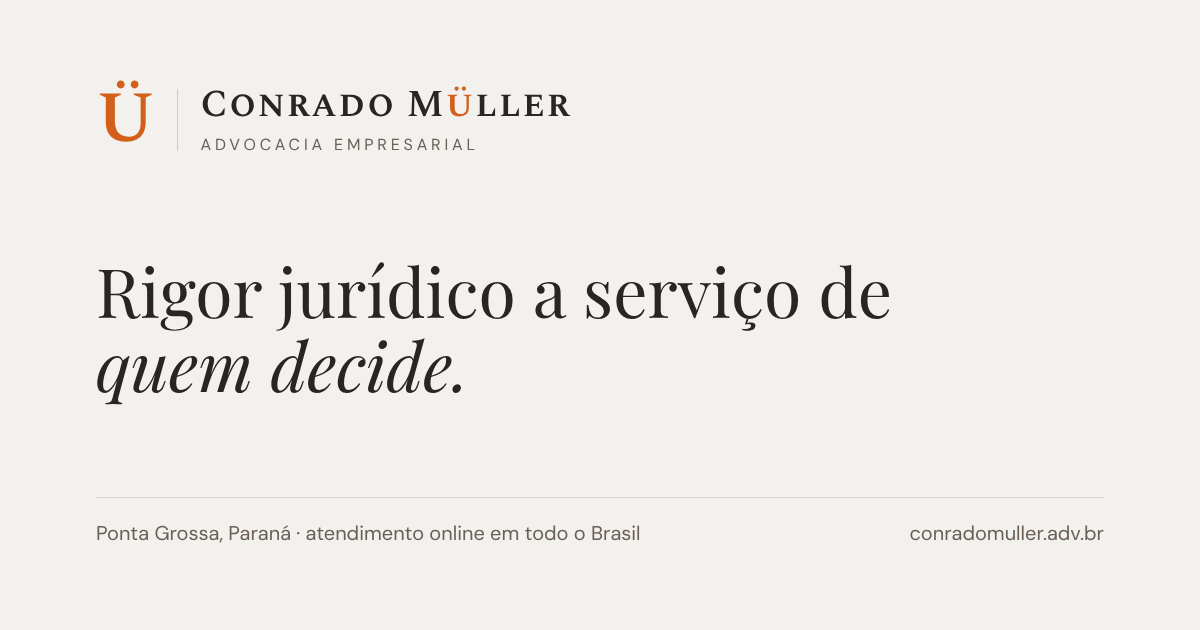
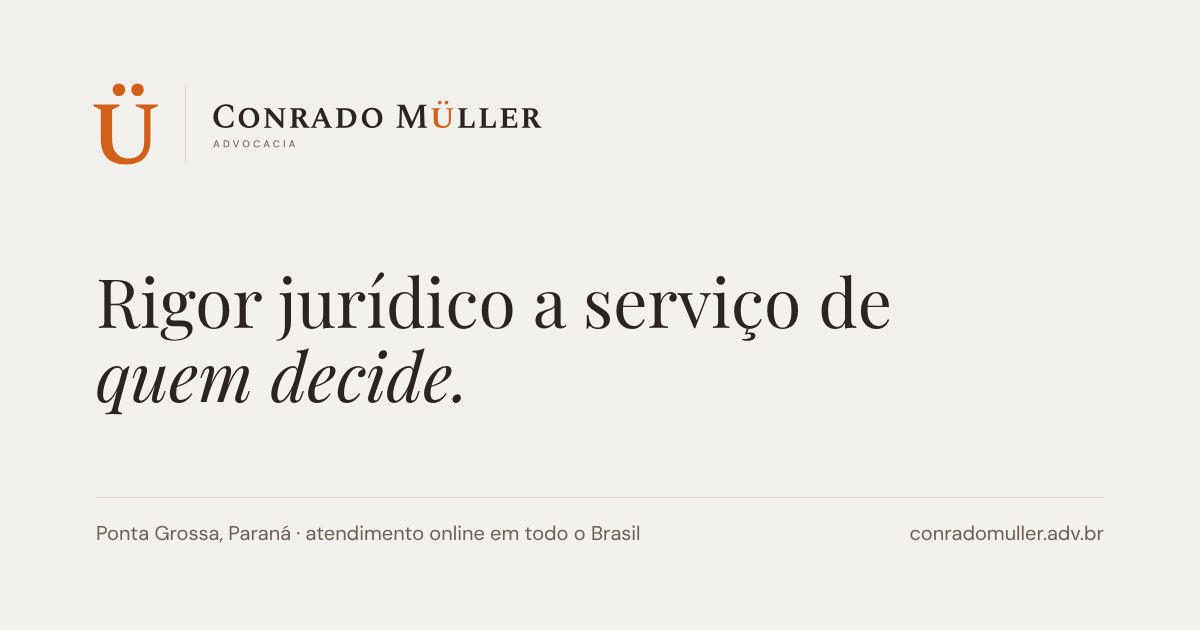
Add files via upload

Changed region(s): [[0.0617, 0.4222, 0.74, 0.6635], [0.0617, 0.1206, 0.4933, 0.2714]]

diff --git a/index.html b/index.html
@@ -35,7 +35,7 @@ input:focus,textarea:focus,select:focus{outline:2px solid #D2601A;outline-offset
 .hero-in-2{animation-delay:.35s}.hero-in-3{animation-delay:1.05s}
 @media (prefers-reduced-motion:reduce){.hero-in{opacity:1;animation:none}}
 .v-stage{display:flex;flex-wrap:wrap;align-items:stretch;gap:32px 64px;padding:0 0 40px}
-.v-u{font-family:'Spectral SC',Georgia,serif;font-weight:600;font-size:clamp(110px,10vw,148px);line-height:.82;color:#D2601A;align-self:center}
+.v-u{display:block;height:clamp(99px,9vw,133px);width:auto;align-self:center}
 .v-div{width:1px;background:#D3CAC0}
 .v-rot{position:relative;flex:1 1 420px;min-width:0;min-height:200px}
 .v-slide{position:absolute;inset:0;display:flex;flex-direction:column;justify-content:center;gap:18px;opacity:0;animation:vCycle 21s cubic-bezier(.33,0,.2,1) infinite both}
@@ -49,7 +49,7 @@ input:focus,textarea:focus,select:focus{outline:2px solid #D2601A;outline-offset
 .v-bar:nth-child(2)::after{animation-delay:7s}.v-bar:nth-child(3)::after{animation-delay:14s}
 @keyframes vCycle{0%{opacity:0;transform:translateY(6px)}6%{opacity:1;transform:none}29%{opacity:1;transform:none}33.33%{opacity:0;transform:translateY(-4px)}100%{opacity:0}}
 @keyframes vBar{0%{transform:scaleX(0)}33.33%{transform:scaleX(1)}33.34%,100%{transform:scaleX(0)}}
-@media (max-width:760px){.v-stage{gap:24px}.v-u{font-size:96px}.v-div{display:none}.v-rot{min-height:220px}}
+@media (max-width:760px){.v-stage{gap:24px}.v-u{height:86px}.v-div{display:none}.v-rot{min-height:220px}}
 @media (min-width:1100px){.card-t{min-height:2.5em}}
 @media (prefers-reduced-motion:reduce){.v-slide,.v-bar::after{animation:none}.v-s1{opacity:1}.v-bars{display:none}}
 .wa-float{position:fixed;right:24px;bottom:24px;z-index:50;display:inline-flex;align-items:center;gap:10px;padding:13px 18px 13px 15px;background:#2A2522;color:#FFFFFF;text-decoration:none;border-radius:2px;font-size:15px;font-weight:500;box-shadow:0 8px 24px rgba(42,37,34,.22);transition:transform .2s ease}
@@ -75,10 +75,7 @@ a:focus-visible,button:focus-visible,summary:focus-visible{outline:2px solid #D2
 @media (max-width:760px){
   header > div{gap:12px!important}
   header a[aria-label]{gap:12px!important}
-  header a[aria-label] > span:first-child{font-size:38px!important}
-  header a[aria-label] > span:nth-child(2){height:32px!important}
-  header a[aria-label] > span:nth-child(3) > span:first-child{font-size:19px!important}
-  header a[aria-label] > span:nth-child(3) > span:last-child{font-size:9px!important;letter-spacing:.2em!important}
+  header a[aria-label] .logo-h{height:44px!important;width:auto!important}
   .menu-btn{display:inline-flex;align-items:center;font:inherit;font-size:12px;font-weight:500;letter-spacing:.14em;text-transform:uppercase;background:none;border:1px solid #2A2522;color:#2A2522;padding:9px 12px;border-radius:2px;cursor:pointer}
   #nav-principal{display:none!important;width:100%;flex-direction:column;align-items:stretch!important;gap:0!important;padding:4px 0 8px}
   #nav-principal.open{display:flex!important}
@@ -90,7 +87,7 @@ a:focus-visible,button:focus-visible,summary:focus-visible{outline:2px solid #D2
 {"@context":"https://schema.org","@type":"WebSite","name":"Conrado Müller Advocacia","alternateName":["Conrado Müller","Conrado Müller Advocacia Empresarial"],"url":"https://conradomuller.adv.br/"}
 </script>
 <script type="application/ld+json">
-{"@context":"https://schema.org","@type":"LegalService","name":"Conrado Müller Advocacia","url":"https://conradomuller.adv.br/","image":"https://conradomuller.adv.br/og.png","logo":"https://conradomuller.adv.br/apple-touch-icon.png","description":"Advocacia empresarial para empresários e pequenas e médias empresas: contratos, societário e governança, contencioso cível, trabalhista empresarial e assessoria jurídica contínua.","telephone":"+55 42 98441-4866","email":"contato@conradomuller.adv.br","address":{"@type":"PostalAddress","addressLocality":"Ponta Grossa","addressRegion":"PR","addressCountry":"BR"},"areaServed":{"@type":"Country","name":"Brasil"},"knowsAbout":["Direito Empresarial","Contratos","Direito Societário","Governança","Contencioso Cível","Direito do Trabalho"],"founder":{"@type":"Person","name":"Conrado Müller Milek","jobTitle":"Advogado","image":"https://conradomuller.adv.br/conrado-muller-milek.webp","sameAs":["https://www.linkedin.com/in/conradomilek"]},"sameAs":["https://www.instagram.com/conradomuller.adv","https://www.linkedin.com/in/conradomilek"]}
+{"@context":"https://schema.org","@type":"LegalService","name":"Conrado Müller Advocacia","url":"https://conradomuller.adv.br/","image":"https://conradomuller.adv.br/og.png","logo":"https://conradomuller.adv.br/icon-512.png","description":"Advocacia empresarial para empresários e pequenas e médias empresas: contratos, societário e governança, contencioso cível, trabalhista empresarial e assessoria jurídica contínua.","telephone":"+55 42 98441-4866","email":"contato@conradomuller.adv.br","address":{"@type":"PostalAddress","addressLocality":"Ponta Grossa","addressRegion":"PR","addressCountry":"BR"},"areaServed":{"@type":"Country","name":"Brasil"},"knowsAbout":["Direito Empresarial","Contratos","Direito Societário","Governança","Contencioso Cível","Direito do Trabalho"],"founder":{"@type":"Person","name":"Conrado Müller Milek","jobTitle":"Advogado","image":"https://conradomuller.adv.br/conrado-muller-milek.webp","sameAs":["https://www.linkedin.com/in/conradomilek"]},"sameAs":["https://www.instagram.com/conradomuller.adv","https://www.linkedin.com/in/conradomilek"]}
 </script>
 </head>
 <body>
@@ -106,14 +103,7 @@ a:focus-visible,button:focus-visible,summary:focus-visible{outline:2px solid #D2
   <!-- HEADER -->
   <header style="border-bottom: 1px solid #DDD5CB; padding: 0 24px; background: #F3F1EE">
     <div style="max-width: 1200px; margin: 0 auto; display: flex; flex-wrap: wrap; align-items: center; justify-content: space-between; gap: 20px; padding: 22px 0">
-      <a href="/" aria-label="Conrado Müller Advocacia, início" style="text-decoration: none; display: flex; align-items: center; gap: 16px">
-        <span aria-hidden="true" style="font-family: 'Spectral SC', Georgia, serif; font-size: 46px; line-height: 1; font-weight: 600; color: #D2601A">Ü</span>
-        <span aria-hidden="true" style="display: block; width: 1px; height: 40px; background: #D3CAC0"></span>
-        <span aria-hidden="true" style="display: flex; flex-direction: column; gap: 6px">
-          <span style="font-family: 'Spectral SC', Georgia, serif; font-size: 24px; font-weight: 600; letter-spacing: 0.04em; color: #2A2522; line-height: 1">Conrado M<span style="color: #D2601A">ü</span>ller</span>
-          <span style="font-size: 11px; letter-spacing: 0.24em; text-transform: uppercase; color: #6B6058">Advocacia Empresarial</span>
-        </span>
-      </a>
+      <a href="/" aria-label="Conrado Müller Advocacia, início" style="text-decoration: none; display: flex; align-items: center; gap: 16px"><img class="logo-h" src="/logo-horizontal-compacto.svg" alt="" width="275" height="53" style="display:block;height:53px;width:auto"></a>
       <input type="text" name="_gotcha" tabindex="-1" autocomplete="off" aria-hidden="true" style="display:none">
         <input type="hidden" name="_subject" value="Novo contato pelo site">
         <button type="submit" class="menu-btn" aria-expanded="false" aria-controls="nav-principal">Menu</button>
@@ -322,7 +312,7 @@ a:focus-visible,button:focus-visible,summary:focus-visible{outline:2px solid #D2
         <span style="font-size: 12px; letter-spacing: 0.2em; text-transform: uppercase; font-weight: 500">05 · Valores</span>
       </div>
       <div class="v-stage" aria-hidden="true">
-        <span class="v-u" style="line-height: 1.25">Ü</span>
+        <img class="v-u" src="/logo-ue.svg" alt="" width="106" height="133">
         <span class="v-div"></span>
         <div class="v-rot">
           <div class="v-slide v-s1">
@@ -483,7 +473,7 @@ a:focus-visible,button:focus-visible,summary:focus-visible{outline:2px solid #D2
   <footer style="background: #2A2522; color: #B0A69B; padding: 0 24px">
     <div style="max-width: 1200px; margin: 0 auto; border-top: 1px solid #403833; padding: 48px 0 40px; display: flex; flex-wrap: wrap; justify-content: space-between; gap: 32px">
       <div style="display: flex; gap: 20px; align-items: flex-start; flex: 1 1 360px; min-width: 0">
-        <span aria-hidden="true" style="font-family: 'Spectral SC', Georgia, serif; font-size: 44px; line-height: 1; font-weight: 600; color: #D2601A">Ü</span>
+        <img src="/logo-ue.svg" alt="" aria-hidden="true" width="32" height="40" style="display:block;flex:0 0 auto;height:40px;width:auto;margin-top:2px">
         <div style="display: flex; flex-direction: column; gap: 6px; font-size: 14px; line-height: 1.6"><span style="color: rgb(243, 241, 238)">Conrado Müller Advocacia</span>
           <span>Sociedade Individual de Advocacia OAB/PR 114.843</span>
           <span>Ponta Grossa, Paraná · Atendimento online em todo o Brasil</span>

diff --git a/duvidas.html b/duvidas.html
@@ -52,10 +52,7 @@ a:focus-visible,button:focus-visible,summary:focus-visible{outline:2px solid #D2
 @media (max-width:760px){
   header > div{gap:12px!important}
   header a[aria-label]{gap:12px!important}
-  header a[aria-label] > span:first-child{font-size:38px!important}
-  header a[aria-label] > span:nth-child(2){height:32px!important}
-  header a[aria-label] > span:nth-child(3) > span:first-child{font-size:19px!important}
-  header a[aria-label] > span:nth-child(3) > span:last-child{font-size:9px!important;letter-spacing:.2em!important}
+  header a[aria-label] .logo-h{height:44px!important;width:auto!important}
   .menu-btn{display:inline-flex;align-items:center;font:inherit;font-size:12px;font-weight:500;letter-spacing:.14em;text-transform:uppercase;background:none;border:1px solid #2A2522;color:#2A2522;padding:9px 12px;border-radius:2px;cursor:pointer}
   #nav-principal{display:none!important;width:100%;flex-direction:column;align-items:stretch!important;gap:0!important;padding:4px 0 8px}
   #nav-principal.open{display:flex!important}
@@ -78,14 +75,7 @@ a:focus-visible,button:focus-visible,summary:focus-visible{outline:2px solid #D2
   <!-- HEADER -->
   <header style="border-bottom: 1px solid #DDD5CB; padding: 0 24px; background: #F3F1EE">
     <div style="max-width: 1200px; margin: 0 auto; display: flex; flex-wrap: wrap; align-items: center; justify-content: space-between; gap: 20px; padding: 22px 0">
-      <a href="/" aria-label="Conrado Müller Advocacia, início" style="text-decoration: none; display: flex; align-items: center; gap: 16px">
-        <span aria-hidden="true" style="font-family: 'Spectral SC', Georgia, serif; font-size: 46px; line-height: 1; font-weight: 600; color: #D2601A">Ü</span>
-        <span aria-hidden="true" style="display: block; width: 1px; height: 40px; background: #D3CAC0"></span>
-        <span aria-hidden="true" style="display: flex; flex-direction: column; gap: 6px">
-          <span style="font-family: 'Spectral SC', Georgia, serif; font-size: 24px; font-weight: 600; letter-spacing: 0.04em; color: #2A2522; line-height: 1">Conrado M<span style="color: #D2601A">ü</span>ller</span>
-          <span style="font-size: 11px; letter-spacing: 0.24em; text-transform: uppercase; color: #6B6058">Advocacia Empresarial</span>
-        </span>
-      </a>
+      <a href="/" aria-label="Conrado Müller Advocacia, início" style="text-decoration: none; display: flex; align-items: center; gap: 16px"><img class="logo-h" src="/logo-horizontal-compacto.svg" alt="" width="275" height="53" style="display:block;height:53px;width:auto"></a>
       <button type="button" class="menu-btn" aria-expanded="false" aria-controls="nav-principal">Menu</button>
       <nav id="nav-principal" aria-label="Principal" style="display: flex; flex-wrap: wrap; align-items: center; gap: 28px; font-size: 15px">
         <a href="/#escritorio" style="text-decoration: none">O Escritório</a>
@@ -288,7 +278,7 @@ a:focus-visible,button:focus-visible,summary:focus-visible{outline:2px solid #D2
   <footer style="background: #2A2522; color: #B0A69B; padding: 0 24px">
     <div style="max-width: 1200px; margin: 0 auto; border-top: 1px solid #403833; padding: 48px 0 40px; display: flex; flex-wrap: wrap; justify-content: space-between; gap: 32px">
       <div style="display: flex; gap: 20px; align-items: flex-start; flex: 1 1 360px; min-width: 0">
-        <span aria-hidden="true" style="font-family: 'Spectral SC', Georgia, serif; font-size: 44px; line-height: 1; font-weight: 600; color: #D2601A">Ü</span>
+        <img src="/logo-ue.svg" alt="" aria-hidden="true" width="32" height="40" style="display:block;flex:0 0 auto;height:40px;width:auto;margin-top:2px">
         <div style="display: flex; flex-direction: column; gap: 6px; font-size: 14px; line-height: 1.6">
           <span style="color: #F3F1EE">Conrado Müller Advocacia</span>
           <span>Sociedade Individual de Advocacia OAB/PR 114.843</span>

diff --git a/valores.html b/valores.html
@@ -59,10 +59,7 @@ a:focus-visible,button:focus-visible,summary:focus-visible{outline:2px solid #D2
 @media (max-width:760px){
   header > div{gap:12px!important}
   header a[aria-label]{gap:12px!important}
-  header a[aria-label] > span:first-child{font-size:38px!important}
-  header a[aria-label] > span:nth-child(2){height:32px!important}
-  header a[aria-label] > span:nth-child(3) > span:first-child{font-size:19px!important}
-  header a[aria-label] > span:nth-child(3) > span:last-child{font-size:9px!important;letter-spacing:.2em!important}
+  header a[aria-label] .logo-h{height:44px!important;width:auto!important}
   .menu-btn{display:inline-flex;align-items:center;font:inherit;font-size:12px;font-weight:500;letter-spacing:.14em;text-transform:uppercase;background:none;border:1px solid #2A2522;color:#2A2522;padding:9px 12px;border-radius:2px;cursor:pointer}
   #nav-principal{display:none!important;width:100%;flex-direction:column;align-items:stretch!important;gap:0!important;padding:4px 0 8px}
   #nav-principal.open{display:flex!important}
@@ -85,14 +82,7 @@ a:focus-visible,button:focus-visible,summary:focus-visible{outline:2px solid #D2
   <!-- HEADER -->
   <header style="border-bottom: 1px solid #DDD5CB; padding: 0 24px; background: #F3F1EE">
     <div style="max-width: 1200px; margin: 0 auto; display: flex; flex-wrap: wrap; align-items: center; justify-content: space-between; gap: 20px; padding: 22px 0">
-      <a href="/" aria-label="Conrado Müller Advocacia, início" style="text-decoration: none; display: flex; align-items: center; gap: 16px">
-        <span aria-hidden="true" style="font-family: 'Spectral SC', Georgia, serif; font-size: 46px; line-height: 1; font-weight: 600; color: #D2601A">Ü</span>
-        <span aria-hidden="true" style="display: block; width: 1px; height: 40px; background: #D3CAC0"></span>
-        <span aria-hidden="true" style="display: flex; flex-direction: column; gap: 6px">
-          <span style="font-family: 'Spectral SC', Georgia, serif; font-size: 24px; font-weight: 600; letter-spacing: 0.04em; color: #2A2522; line-height: 1">Conrado M<span style="color: #D2601A">ü</span>ller</span>
-          <span style="font-size: 11px; letter-spacing: 0.24em; text-transform: uppercase; color: #6B6058">Advocacia Empresarial</span>
-        </span>
-      </a>
+      <a href="/" aria-label="Conrado Müller Advocacia, início" style="text-decoration: none; display: flex; align-items: center; gap: 16px"><img class="logo-h" src="/logo-horizontal-compacto.svg" alt="" width="275" height="53" style="display:block;height:53px;width:auto"></a>
       <button type="button" class="menu-btn" aria-expanded="false" aria-controls="nav-principal">Menu</button>
       <nav id="nav-principal" aria-label="Principal" style="display: flex; flex-wrap: wrap; align-items: center; gap: 28px; font-size: 15px">
         <a href="/#escritorio" style="text-decoration: none">O Escritório</a>
@@ -167,7 +157,7 @@ a:focus-visible,button:focus-visible,summary:focus-visible{outline:2px solid #D2
   <footer style="background: #2A2522; color: #B0A69B; padding: 0 24px">
     <div style="max-width: 1200px; margin: 0 auto; border-top: 1px solid #403833; padding: 48px 0 40px; display: flex; flex-wrap: wrap; justify-content: space-between; gap: 32px">
       <div style="display: flex; gap: 20px; align-items: flex-start; flex: 1 1 360px; min-width: 0">
-        <span aria-hidden="true" style="font-family: 'Spectral SC', Georgia, serif; font-size: 44px; line-height: 1; font-weight: 600; color: #D2601A">Ü</span>
+        <img src="/logo-ue.svg" alt="" aria-hidden="true" width="32" height="40" style="display:block;flex:0 0 auto;height:40px;width:auto;margin-top:2px">
         <div style="display: flex; flex-direction: column; gap: 6px; font-size: 14px; line-height: 1.6">
           <span style="color: #F3F1EE">Conrado Müller Advocacia</span>
           <span>Sociedade Individual de Advocacia OAB/PR 114.843</span>

diff --git a/privacidade.html b/privacidade.html
@@ -61,10 +61,7 @@ a:focus-visible,button:focus-visible,summary:focus-visible{outline:2px solid #D2
 @media (max-width:760px){
   header > div{gap:12px!important}
   header a[aria-label]{gap:12px!important}
-  header a[aria-label] > span:first-child{font-size:38px!important}
-  header a[aria-label] > span:nth-child(2){height:32px!important}
-  header a[aria-label] > span:nth-child(3) > span:first-child{font-size:19px!important}
-  header a[aria-label] > span:nth-child(3) > span:last-child{font-size:9px!important;letter-spacing:.2em!important}
+  header a[aria-label] .logo-h{height:44px!important;width:auto!important}
   .menu-btn{display:inline-flex;align-items:center;font:inherit;font-size:12px;font-weight:500;letter-spacing:.14em;text-transform:uppercase;background:none;border:1px solid #2A2522;color:#2A2522;padding:9px 12px;border-radius:2px;cursor:pointer}
   #nav-principal{display:none!important;width:100%;flex-direction:column;align-items:stretch!important;gap:0!important;padding:4px 0 8px}
   #nav-principal.open{display:flex!important}
@@ -87,14 +84,7 @@ a:focus-visible,button:focus-visible,summary:focus-visible{outline:2px solid #D2
   <!-- HEADER -->
   <header style="border-bottom: 1px solid #DDD5CB; padding: 0 24px; background: #F3F1EE">
     <div style="max-width: 1200px; margin: 0 auto; display: flex; flex-wrap: wrap; align-items: center; justify-content: space-between; gap: 20px; padding: 22px 0">
-      <a href="/" aria-label="Conrado Müller Advocacia, início" style="text-decoration: none; display: flex; align-items: center; gap: 16px">
-        <span aria-hidden="true" style="font-family: 'Spectral SC', Georgia, serif; font-size: 46px; line-height: 1; font-weight: 600; color: #D2601A">Ü</span>
-        <span aria-hidden="true" style="display: block; width: 1px; height: 40px; background: #D3CAC0"></span>
-        <span aria-hidden="true" style="display: flex; flex-direction: column; gap: 6px">
-          <span style="font-family: 'Spectral SC', Georgia, serif; font-size: 24px; font-weight: 600; letter-spacing: 0.04em; color: #2A2522; line-height: 1">Conrado M<span style="color: #D2601A">ü</span>ller</span>
-          <span style="font-size: 11px; letter-spacing: 0.24em; text-transform: uppercase; color: #6B6058">Advocacia Empresarial</span>
-        </span>
-      </a>
+      <a href="/" aria-label="Conrado Müller Advocacia, início" style="text-decoration: none; display: flex; align-items: center; gap: 16px"><img class="logo-h" src="/logo-horizontal-compacto.svg" alt="" width="275" height="53" style="display:block;height:53px;width:auto"></a>
       <button type="button" class="menu-btn" aria-expanded="false" aria-controls="nav-principal">Menu</button>
       <nav id="nav-principal" aria-label="Principal" style="display: flex; flex-wrap: wrap; align-items: center; gap: 28px; font-size: 15px">
         <a href="/#escritorio" style="text-decoration: none">O Escritório</a>
@@ -223,7 +213,7 @@ a:focus-visible,button:focus-visible,summary:focus-visible{outline:2px solid #D2
   <footer style="background: #2A2522; color: #B0A69B; padding: 0 24px">
     <div style="max-width: 1200px; margin: 0 auto; padding: 48px 0 40px; display: flex; flex-wrap: wrap; justify-content: space-between; gap: 32px">
       <div style="display: flex; gap: 20px; align-items: flex-start; flex: 1 1 360px; min-width: 0">
-        <span aria-hidden="true" style="font-family: 'Spectral SC', Georgia, serif; font-size: 44px; line-height: 1; font-weight: 600; color: #D2601A">Ü</span>
+        <img src="/logo-ue.svg" alt="" aria-hidden="true" width="32" height="40" style="display:block;flex:0 0 auto;height:40px;width:auto;margin-top:2px">
         <div style="display: flex; flex-direction: column; gap: 6px; font-size: 14px; line-height: 1.6">
           <span style="color: #F3F1EE">Conrado Müller Advocacia</span>
           <span>Sociedade Individual de Advocacia OAB/PR 114.843</span>

diff --git a/termos.html b/termos.html
@@ -58,10 +58,7 @@ a:focus-visible,button:focus-visible,summary:focus-visible{outline:2px solid #D2
 @media (max-width:760px){
   header > div{gap:12px!important}
   header a[aria-label]{gap:12px!important}
-  header a[aria-label] > span:first-child{font-size:38px!important}
-  header a[aria-label] > span:nth-child(2){height:32px!important}
-  header a[aria-label] > span:nth-child(3) > span:first-child{font-size:19px!important}
-  header a[aria-label] > span:nth-child(3) > span:last-child{font-size:9px!important;letter-spacing:.2em!important}
+  header a[aria-label] .logo-h{height:44px!important;width:auto!important}
   .menu-btn{display:inline-flex;align-items:center;font:inherit;font-size:12px;font-weight:500;letter-spacing:.14em;text-transform:uppercase;background:none;border:1px solid #2A2522;color:#2A2522;padding:9px 12px;border-radius:2px;cursor:pointer}
   #nav-principal{display:none!important;width:100%;flex-direction:column;align-items:stretch!important;gap:0!important;padding:4px 0 8px}
   #nav-principal.open{display:flex!important}
@@ -84,14 +81,7 @@ a:focus-visible,button:focus-visible,summary:focus-visible{outline:2px solid #D2
   <!-- HEADER -->
   <header style="border-bottom: 1px solid #DDD5CB; padding: 0 24px; background: #F3F1EE">
     <div style="max-width: 1200px; margin: 0 auto; display: flex; flex-wrap: wrap; align-items: center; justify-content: space-between; gap: 20px; padding: 22px 0">
-      <a href="/" aria-label="Conrado Müller Advocacia, início" style="text-decoration: none; display: flex; align-items: center; gap: 16px">
-        <span aria-hidden="true" style="font-family: 'Spectral SC', Georgia, serif; font-size: 46px; line-height: 1; font-weight: 600; color: #D2601A">Ü</span>
-        <span aria-hidden="true" style="display: block; width: 1px; height: 40px; background: #D3CAC0"></span>
-        <span aria-hidden="true" style="display: flex; flex-direction: column; gap: 6px">
-          <span style="font-family: 'Spectral SC', Georgia, serif; font-size: 24px; font-weight: 600; letter-spacing: 0.04em; color: #2A2522; line-height: 1">Conrado M<span style="color: #D2601A">ü</span>ller</span>
-          <span style="font-size: 11px; letter-spacing: 0.24em; text-transform: uppercase; color: #6B6058">Advocacia Empresarial</span>
-        </span>
-      </a>
+      <a href="/" aria-label="Conrado Müller Advocacia, início" style="text-decoration: none; display: flex; align-items: center; gap: 16px"><img class="logo-h" src="/logo-horizontal-compacto.svg" alt="" width="275" height="53" style="display:block;height:53px;width:auto"></a>
       <button type="button" class="menu-btn" aria-expanded="false" aria-controls="nav-principal">Menu</button>
       <nav id="nav-principal" aria-label="Principal" style="display: flex; flex-wrap: wrap; align-items: center; gap: 28px; font-size: 15px">
         <a href="/#escritorio" style="text-decoration: none">O Escritório</a>
@@ -192,7 +182,7 @@ a:focus-visible,button:focus-visible,summary:focus-visible{outline:2px solid #D2
   <footer style="background: #2A2522; color: #B0A69B; padding: 0 24px">
     <div style="max-width: 1200px; margin: 0 auto; padding: 48px 0 40px; display: flex; flex-wrap: wrap; justify-content: space-between; gap: 32px">
       <div style="display: flex; gap: 20px; align-items: flex-start; flex: 1 1 360px; min-width: 0">
-        <span aria-hidden="true" style="font-family: 'Spectral SC', Georgia, serif; font-size: 44px; line-height: 1; font-weight: 600; color: #D2601A">Ü</span>
+        <img src="/logo-ue.svg" alt="" aria-hidden="true" width="32" height="40" style="display:block;flex:0 0 auto;height:40px;width:auto;margin-top:2px">
         <div style="display: flex; flex-direction: column; gap: 6px; font-size: 14px; line-height: 1.6">
           <span style="color: #F3F1EE">Conrado Müller Advocacia</span>
           <span>Sociedade Individual de Advocacia OAB/PR 114.843</span>

diff --git a/404.html b/404.html
@@ -58,10 +58,7 @@ a:focus-visible,button:focus-visible,summary:focus-visible{outline:2px solid #D2
 @media (max-width:760px){
   header > div{gap:12px!important}
   header a[aria-label]{gap:12px!important}
-  header a[aria-label] > span:first-child{font-size:38px!important}
-  header a[aria-label] > span:nth-child(2){height:32px!important}
-  header a[aria-label] > span:nth-child(3) > span:first-child{font-size:19px!important}
-  header a[aria-label] > span:nth-child(3) > span:last-child{font-size:9px!important;letter-spacing:.2em!important}
+  header a[aria-label] .logo-h{height:44px!important;width:auto!important}
   .menu-btn{display:inline-flex;align-items:center;font:inherit;font-size:12px;font-weight:500;letter-spacing:.14em;text-transform:uppercase;background:none;border:1px solid #2A2522;color:#2A2522;padding:9px 12px;border-radius:2px;cursor:pointer}
   #nav-principal{display:none!important;width:100%;flex-direction:column;align-items:stretch!important;gap:0!important;padding:4px 0 8px}
   #nav-principal.open{display:flex!important}
@@ -75,14 +72,7 @@ a:focus-visible,button:focus-visible,summary:focus-visible{outline:2px solid #D2
 <div style="background:#F3F1EE;min-height:100vh;font-family:'DM Sans',system-ui,sans-serif;color:#2A2522">
 <header style="border-bottom: 1px solid #DDD5CB; padding: 0 24px; background: #F3F1EE">
     <div style="max-width: 1200px; margin: 0 auto; display: flex; flex-wrap: wrap; align-items: center; justify-content: space-between; gap: 20px; padding: 22px 0">
-      <a href="/" aria-label="Conrado Müller Advocacia, início" style="text-decoration: none; display: flex; align-items: center; gap: 16px">
-        <span aria-hidden="true" style="font-family: 'Spectral SC', Georgia, serif; font-size: 46px; line-height: 1; font-weight: 600; color: #D2601A">Ü</span>
-        <span aria-hidden="true" style="display: block; width: 1px; height: 40px; background: #D3CAC0"></span>
-        <span aria-hidden="true" style="display: flex; flex-direction: column; gap: 6px">
-          <span style="font-family: 'Spectral SC', Georgia, serif; font-size: 24px; font-weight: 600; letter-spacing: 0.04em; color: #2A2522; line-height: 1">Conrado M<span style="color: #D2601A">ü</span>ller</span>
-          <span style="font-size: 11px; letter-spacing: 0.24em; text-transform: uppercase; color: #6B6058">Advocacia Empresarial</span>
-        </span>
-      </a>
+      <a href="/" aria-label="Conrado Müller Advocacia, início" style="text-decoration: none; display: flex; align-items: center; gap: 16px"><img class="logo-h" src="/logo-horizontal-compacto.svg" alt="" width="275" height="53" style="display:block;height:53px;width:auto"></a>
       <button type="button" class="menu-btn" aria-expanded="false" aria-controls="nav-principal">Menu</button>
       <nav id="nav-principal" aria-label="Principal" style="display: flex; flex-wrap: wrap; align-items: center; gap: 28px; font-size: 15px">
         <a href="/#escritorio" style="text-decoration: none">O Escritório</a>
